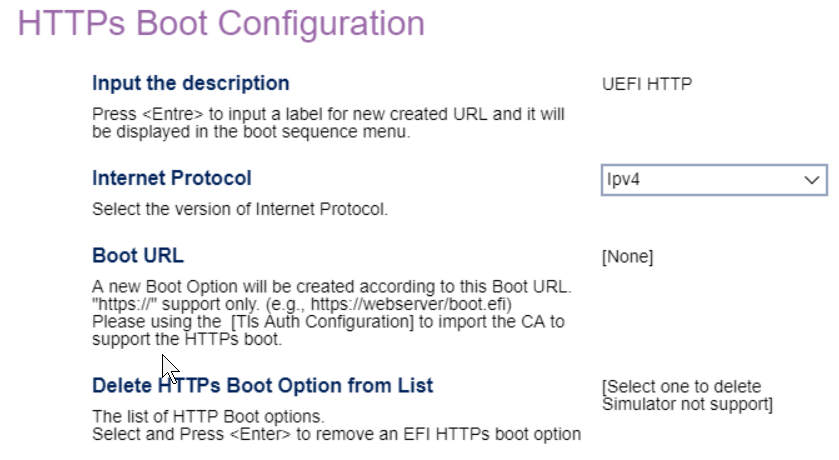
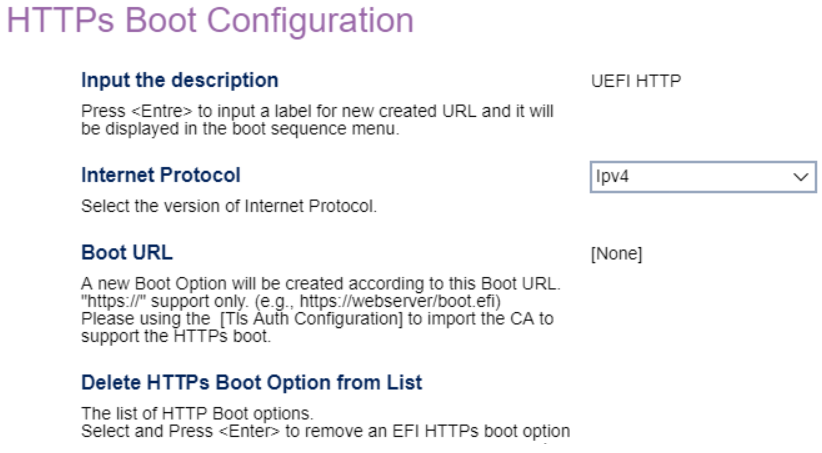
FIX: proofread network setup, add https boot img

diff --git a/bios/settings/thinkcenter/network_setup.md b/bios/settings/thinkcenter/network_setup.md
@@ -4,10 +4,10 @@
 
 <details><summary>Onboard Ethernet Controller</summary>
 
-One of 2 possible options for the onboard ethernet controller:
+Options:
 
-1.  **Enabled** - enables the onboard ethernet controller. Default.
-2.  Disabled - disables all [Intel (R) AMT](https://software.intel.com/sites/manageability/AMT_Implementation_and_Reference_Guide/default.htm) related functions.
+1.  **Enabled** - Default.
+2.  Disabled - **WARNING:** also disables all [Intel (R) AMT](https://software.intel.com/sites/manageability/AMT_Implementation_and_Reference_Guide/default.htm) related functions.
 
 <!-- TODO: add WMI
 | WMI Setting name | Values | SVP Req'd | AMD/Intel |
@@ -20,7 +20,7 @@ One of 2 possible options for the onboard ethernet controller:
 
 Controls access to WiFi.
 
-One of 2 possible options for wireless LAN (WiFi):
+Options:
 
 1.  **Enabled** - enables wireless LAN. Default.
 2.  Disabled - enables wireless LAN.
@@ -34,12 +34,12 @@ One of 2 possible options for wireless LAN (WiFi):
 
 <details><summary>Wireless LAN PXE boot</summary>
 
-Select whether to load Wireless LAN UNDI Driver to support wireless LAN PXE boot or https boot.
+Select whether to load Wireless LAN UNDI Driver to support wireless LAN PXE boot or HTTPS boot.
 
-One of 2 possible options for PXE support:
+Options:
 
-1.  **Disabled** - disables PXE. Default.
-2.  Enabled - enables PXE.
+1.  **Disabled** - Default.
+2.  Enabled.
 
 <!-- TODO: add WMI
 | WMI Setting name | Values | SVP Req'd | AMD/Intel |
@@ -48,90 +48,81 @@ One of 2 possible options for PXE support:
 -->
 </details>
 
-<details><summary>Wireless Certified Information</summary>
+### Wireless Certified Information ###
 <!-- SIMULATOR DOES NOT SUPPORT -->
-</details>
 
 <details><summary>Wireless Auto Disconnection</summary>
 
 Disable wireless LAN when onboard Ethernet is connected.
 
-One of 2 possible options for auto disconnection:
-
-1.  **Disabled** - enables auto disconnection. Default.
-2.  Enable - enables auto disconnection.
+1.  **Disabled** - Default.
+2.  Enable.
 
 <!-- TODO: add WMI
 | WMI Setting name | Values | SVP Req'd | AMD/Intel |
 |:---|:---|:---|:---|
 | WirelessAutoDisconnection | setting_values | yes_no | amd_intel |
 -->
-
 </details>
-
 
 <details><summary>PXE IPV4 Network Stack</summary>
 
-One of 2 possible options for IPV4 PXE:
+Options:
 
-1. **Disabled** - enables IPV4 PXE. Default.
-2. Enabled - enables IPV4 PXE.
+1. **Disabled** - Default.
+2. Enabled.
 
 <!-- TODO: add WMI
 | WMI Setting name | Values | SVP Req'd | AMD/Intel |
 |:---|:---|:---|:---|
 | PXEIPV4NetworkStack | setting_values | yes_no | amd_intel |
 -->
-
 </details>
 
 
 <details><summary>PXE IPV6 Network Stack</summary>
 
-One of 2 possible options for IPV6 PXE:
+Options:
 
-1.  **Disabled** - enables IPV6 PXE. Default.
-2.  Enabled - enables IPV6 PXE.
+1.  **Disabled** - Default.
+2.  Enabled.
 
 <!-- TODO: add WMI
 | WMI Setting name | Values | SVP Req'd | AMD/Intel |
 |:---|:---|:---|:---|
 | PXEIPV6NetworkStack | setting_values | yes_no | amd_intel |
 -->
-
 </details>
 
 <details><summary>HTTPS Boot</summary>
 
 Custom HTTPS boot.
 
-One of 2 possible options for custom HTTPS boot:
+Options:
 
-1.  **Disabled** - disables custom HTTPS boot. Default.
-2.  Enabled - enables custom HTTPS boot.
+1.  **Disabled** - Default.
+2.  Enabled.
 
-> **Note** If enabled, `HTTPs Boot Configuration` and `Tls Auth Configuration` will be shown.
+**Note:** If enabled, `HTTPs Boot Configuration` and `Tls Auth Configuration` will be shown.
 
 <!-- WMI: no -->
 </details>
 
 <details><summary>Lenovo Cloud Services</summary>
 
-When enabled, boot with `Lenovo Cloud` selected in boot menu to boot from Lenovo Cloud server directly.
+Whether to boot with `Lenovo Cloud` selected in boot menu to boot from Lenovo Cloud server directly.
 
-One of 2 possible options for Lenovo Cloud Services:
-
-1.  **Disabled** - enables Lenovo Cloud Services. Default.
-2. Enabled - enables Lenovo Cloud Services.
+1.  **Disabled** - Default.
+2. Enabled.
 
 <!-- WMI: no -->
 </details>
 
 <details><summary>Win VDI Boot</summary>
 
-When enabled, boot with `Win VDI Boot` selected in boot menu to boot from Lenovo Cloud server and load VDI service.
+Whether to boot with `Win VDI Boot` selected in boot menu, to boot from Lenovo Cloud server and load VDI service.
 
-One of 2 possible options for Win VDI Boot:
+Options:
 
 1. **Disabled** - enables Win VDI Boot. Default.
 2. Enabled - enables Win VDI Boot.
@@ -142,9 +133,11 @@ One of 2 possible options for Win VDI Boot:
 
 ### HTTPs Boot Configuration  ###
 
-Configure HTTPs Boot parameters.
 
-**Note:** Only one URL can be entered at a time. The configuration will take effect after a system reboot.
+![](./img/thinkcenter_https_boot_configuration.png)
+
+
+**Note:** Only one configuration can be entered at a time. The configuration will take effect after a system reboot.
 
 <details><summary>Input the description</summary>
 
@@ -198,10 +191,8 @@ Server CA configuration.
 
 Automatically connect to WiFi on boot.
 
-One of 2 possible options for Automatic connection:
-
-1. **Enabled** - enables automatic connection. Default.
-2. Disabled - enables automatic connection.
+1. **Enabled** - Default.
+2. Disabled.
 
 <!-- WMI: no -->
 
